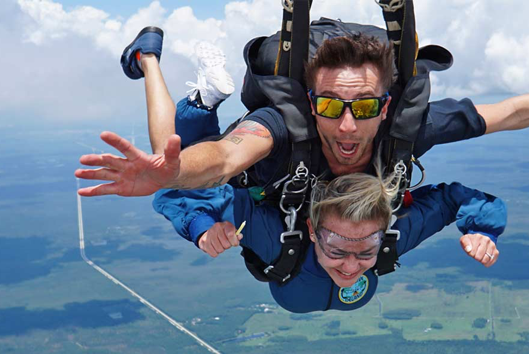
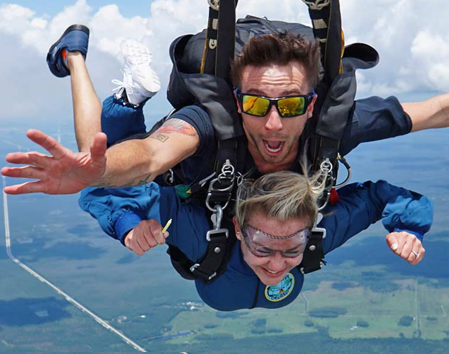
fixed responsive issues, added mobile design

diff --git a/CSS/index.css b/CSS/index.css
@@ -1,7 +1,3 @@
-/* header {
-  overflow: hidden;
-} */
-
 body {
   background-color: #4282d6;
   padding: 0px;
@@ -41,7 +37,6 @@ body {
 
 #bannerTitle {
   margin-top: 12%;
-  /* margin-left: 33%; */
   display: flex;
   width: 100%;
   justify-content: center;
@@ -91,41 +86,27 @@ body {
 #pageDownButtonContainer {
   display: flex;
   justify-content: center;
-  margin-top: 5%;
+  margin-top: 12%;
   position: relative;
   cursor: pointer;
 }
 
-.arrow {
-  background-color: rgb(255, 255, 255);
-  height: 35px;
-  width: 3px;
-  position: absolute;
-  margin-top: 35px;
-  margin-right: 22px;
-  transform: rotate(-40deg);
+#pageDown {
+  width: 4%;
 }
-
-.right {
-  transform: rotate(40deg);
-  margin-left: 42px;
-}
-
 #mainGraphicContainer {
   width: 100%;
   display: flex;
   flex-direction: column;
   justify-content: center;
   position: relative;
+  margin-top: 20%;
 }
 
 #mainGraphic {
-  /* width: 100%; */
-  /* height: 700px; */
   display: flex;
   flex-direction: row;
   justify-content: center;
-  /* position: relative; */
 }
 
 #mainGraphicImage {
@@ -135,12 +116,11 @@ body {
   overflow: hidden;
   background-position: center;
   background-repeat: no-repeat;
+  background-size: cover;
   -webkit-background-size: cover;
   -moz-background-size: cover;
   -o-background-size: cover;
-  background-size: cover;
   position: relative;
-  z-index: -1;
 }
 
 #titleContainer {
@@ -199,7 +179,6 @@ p3 {
   display: flex;
   flex-direction: row;
   justify-content: space-evenly;
-  /* border: 2px solid red; */
   position: absolute;
   z-index: 1;
 }
@@ -224,6 +203,12 @@ p3 {
 .skydiver_image {
   width: 60%;
   margin-left: 20%;
+}
+
+.shrink {
+  width: 45%;
+  margin-left: 30%;
+  margin-bottom: 10%;
 }
 
 .start_button {
@@ -283,8 +268,6 @@ p2 {
 #join {
   display: flex;
   flex-direction: row;
-  display: flex;
-  flex-direction: row;
   justify-content: center;
   font-size: 4vw;
 }
@@ -306,24 +289,28 @@ p2 {
 }
 
 .footerImage {
-  width: 33%;
-  height: 300px;
+  width: 33.3%;
+  height: 100%;
 }
+
+/* Footer Section */
 
 #footerContainer {
   width: 100%;
-  height: 100px;
-  background-color: blanchedalmond;
+  background-color: rgb(248, 248, 248);
   display: flex;
   flex-direction: row;
   justify-content: space-between;
   font-size: 6vw;
 }
+#footerLeft {
+  width: 20%;
+  min-width: 20%;
+}
 
 #footerLogo {
   display: flex;
   flex-direction: row;
-  text-align: center;
   cursor: pointer;
 }
 
@@ -334,12 +321,99 @@ p2 {
   margin-top: 2%;
 }
 
+#footerRight {
+  width: 100%;
+  margin-left: 20%;
+  display: flex;
+  justify-content: flex-end;
+}
+
 #socialLogos {
-  margin-right: 3%;
-  margin-top: 1%;
   cursor: pointer;
+  width: 20%;
+}
+
+#socialImage {
+  width: 33%;
+  height: 60%;
+  margin-left: 2%;
+  margin-top: 2%;
 }
 
 p5 {
   color: #4282d6;
+}
+
+/* MOBILE DESIGN */
+
+@media only screen and (max-width: 800px) {
+  #mainGraphicContainer {
+    background-color: rgb(255, 255, 255);
+    margin-top: 50%;
+  }
+
+  #mainGraphic {
+    margin-left: -30%;
+    margin-bottom: 90%;
+    background-color: rgb(255, 255, 255);
+  }
+
+  #lowerTitle {
+    display: none;
+  }
+
+  #buttonGroup {
+    margin-left: 60%;
+    margin-top: -55%;
+    flex-direction: column;
+  }
+
+  .button_container {
+    margin-top: 2%;
+    width: 50%;
+    height: 180%;
+    border: 2px solid rgb(194, 185, 185);
+    display: flex;
+    flex-direction: column;
+    justify-content: space-between;
+  }
+
+  .button_group_text {
+    font-size: 2.5vw;
+  }
+
+  .skydiver_image {
+    margin-top: 2%;
+    margin-bottom: 2%;
+  }
+  .shrink {
+    margin-bottom: 0%;
+    margin-bottom: 2%;
+  }
+
+  .black {
+    margin-top: 30%;
+    margin-left: 10%;
+    height: 17%;
+    width: 25%;
+  }
+
+  #find {
+    margin-top: 2%;
+    margin-left: 15%;
+    font-size: 3vw;
+  }
+
+  p2 {
+    margin-top: 1%;
+    font-size: 4vw;
+  }
+
+  .skydiving_school {
+    margin-top: 3%;
+  }
+
+  #footerTop {
+    display: none;
+  }
 }

diff --git a/index.html b/index.html
@@ -27,14 +27,12 @@
       </div>
     </banner>
     <div id="pageDownButtonContainer" onclick="scrollPage()">
-        <img src="assets/ButtonContainer.png"></img>
-        <div class="arrow"></div>
-        <div class="arrow right"></div>
+        <img id="pageDown" src="./assets/ButtonContainer.png"></img>
     </div>
     <div id="mainGraphicContainer">
       <div id="mainGraphic">
         
-        <img src="../assets/mainGraphic.png" id="mainGraphicImage">
+        <img src="./assets/mainGraphic.png" id="mainGraphicImage">
         <div id="titleContainer">
         <div class="title_text site_font regular">Get Your</div>
         <p class="title_text site_font regular wings">Wings</p>
@@ -46,37 +44,37 @@
       </div>
     </div>
     <div id="lowerGraphicContainer">
-    <img src="../assets/lowerGraphic.png" id="mainGraphicImage">
+    <img src="./assets/lowerGraphic.png" id="mainGraphicImage">
     
   <div id="buttonGroup">
     <div class="button_container">
       <p class="button_group_text site_font">Get started booking your first jump.</p>
-    <img class="skydiver_image" src="../assets/skydiver1.png">
+    <img class="skydiver_image" src="./assets/skydiver1.png">
     <div class="start_button"><p2 class="site_font">Get Started</p2></div>
     </div>
     <div class="button_container">
       <p class="button_group_text site_font">Ready to go solo?  We can help.</p>
-      <img class="skydiver_image" src="../assets/skydiver2.png">
+      <img class="skydiver_image" src="./assets/skydiver2.png">
       <div class="start_button"><p2 class="site_font">Get Certified</p2></div>
     </div>
     <div class="button_container">
       <p class="button_group_text site_font">Learn more about 
         skydiving as a discipline. 
         </p>
-        <img class="skydiver_image" src="../assets/skydiver3.png">
+        <img class="skydiver_image shrink" src="./assets/skydiver3.png">
         <div class="start_button"><p2 class="site_font">The Manual</p2></div>
       </div>
   </div>
  <div class="start_button black">
    <div id="find" class="site_font">Find a Dropzone</div>
-  <img id="dropPin" src="assets/mapdrop.png">
+  <img id="dropPin" src="./assets/mapdrop.png">
   </div>
   </div>
   <div id="joinTheTeem">
     <div id="join">
-      <img class="diamond" src="../assets/blackDiamond.png">
-      <div class="skydiving_school site_font">Join the TEEM</div> 
-      <img class="diamond" src="../assets/blackDiamond.png">
+      <img class="diamond" src="./assets/blackDiamond.png">
+      <div class="skydiving_school site_font">Join the TEAM</div> 
+      <img class="diamond" src="./assets/blackDiamond.png">
   </div>
   </div>
   <div id="joinVideo">
@@ -91,19 +89,27 @@
     ></iframe>
   </div>
   <div id="footerTop">
-    <img src="../assets/bottom-left.png" class="footerImage">
-    <img src="../assets/bottom-middle.png" class="footerImage">
-    <img src="../assets/bottom-right.png" class="footerImage">
+    <img src="./assets/bottom-left.png" class="footerImage">
+    <img src="./assets/bottom-middle.png" class="footerImage">
+    <img src="./assets/bottom-right.png" class="footerImage">
   </div>
   <div id="footerContainer">
+  
+  <div id="footerLeft" onclick="document.location='index.html'">
+    
       <div id="footerLogo"><p3 class="site_font">R</p3><p5 class="site_font">A</p5>
-        <img id="footerHelmet" src="../assets/helmet.png">
+      <img id="footerHelmet" src="./assets/helmet.png">
       </div>
+    
+    </div>
+    <div id="footerRight">
       <div id="socialLogos">
-        <img src="assets/fb.png">
-        <img src="assets/instagram.png">
+        <a href="https://www.facebook.com/JoinTheTeem/">
+        <img id="socialImage" src="./assets/fb.png"></a>
+        <a href="https://www.instagram.com/jointheteem/?hl=en">
+        <img id="socialImage" src="./assets/instagram.png"></a>
       </div>
-
+    </div>
   </div>
 
   </body>
